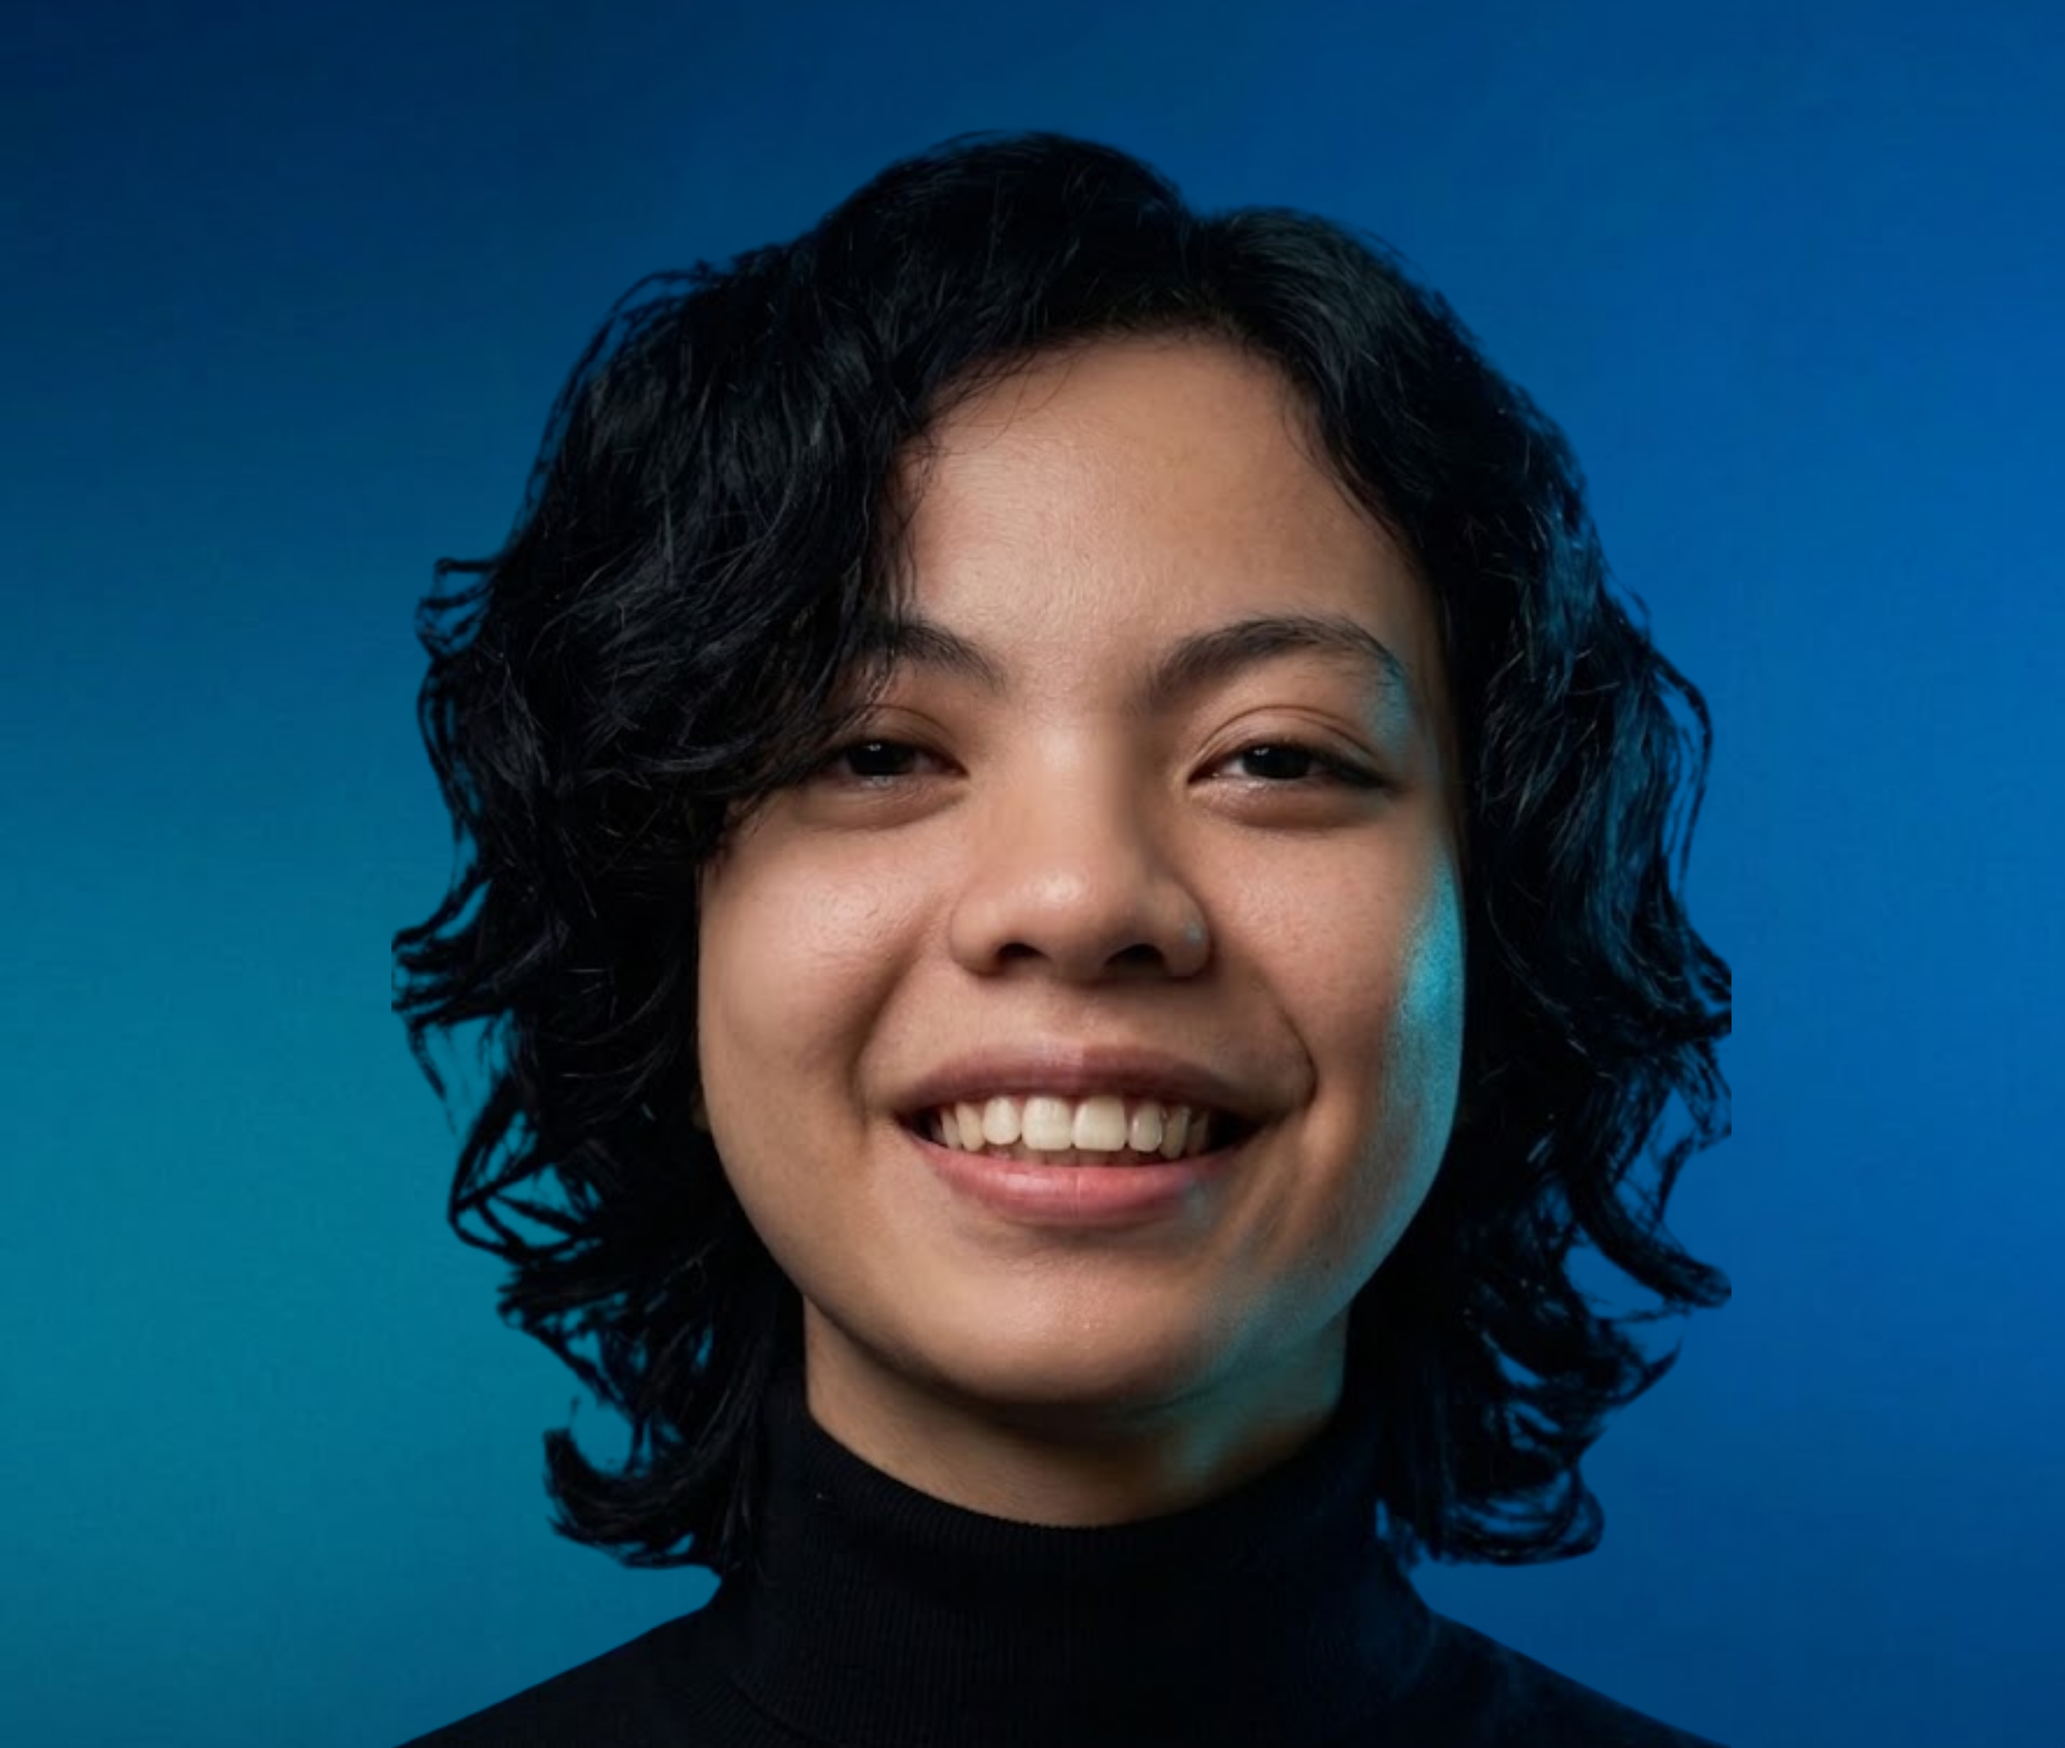
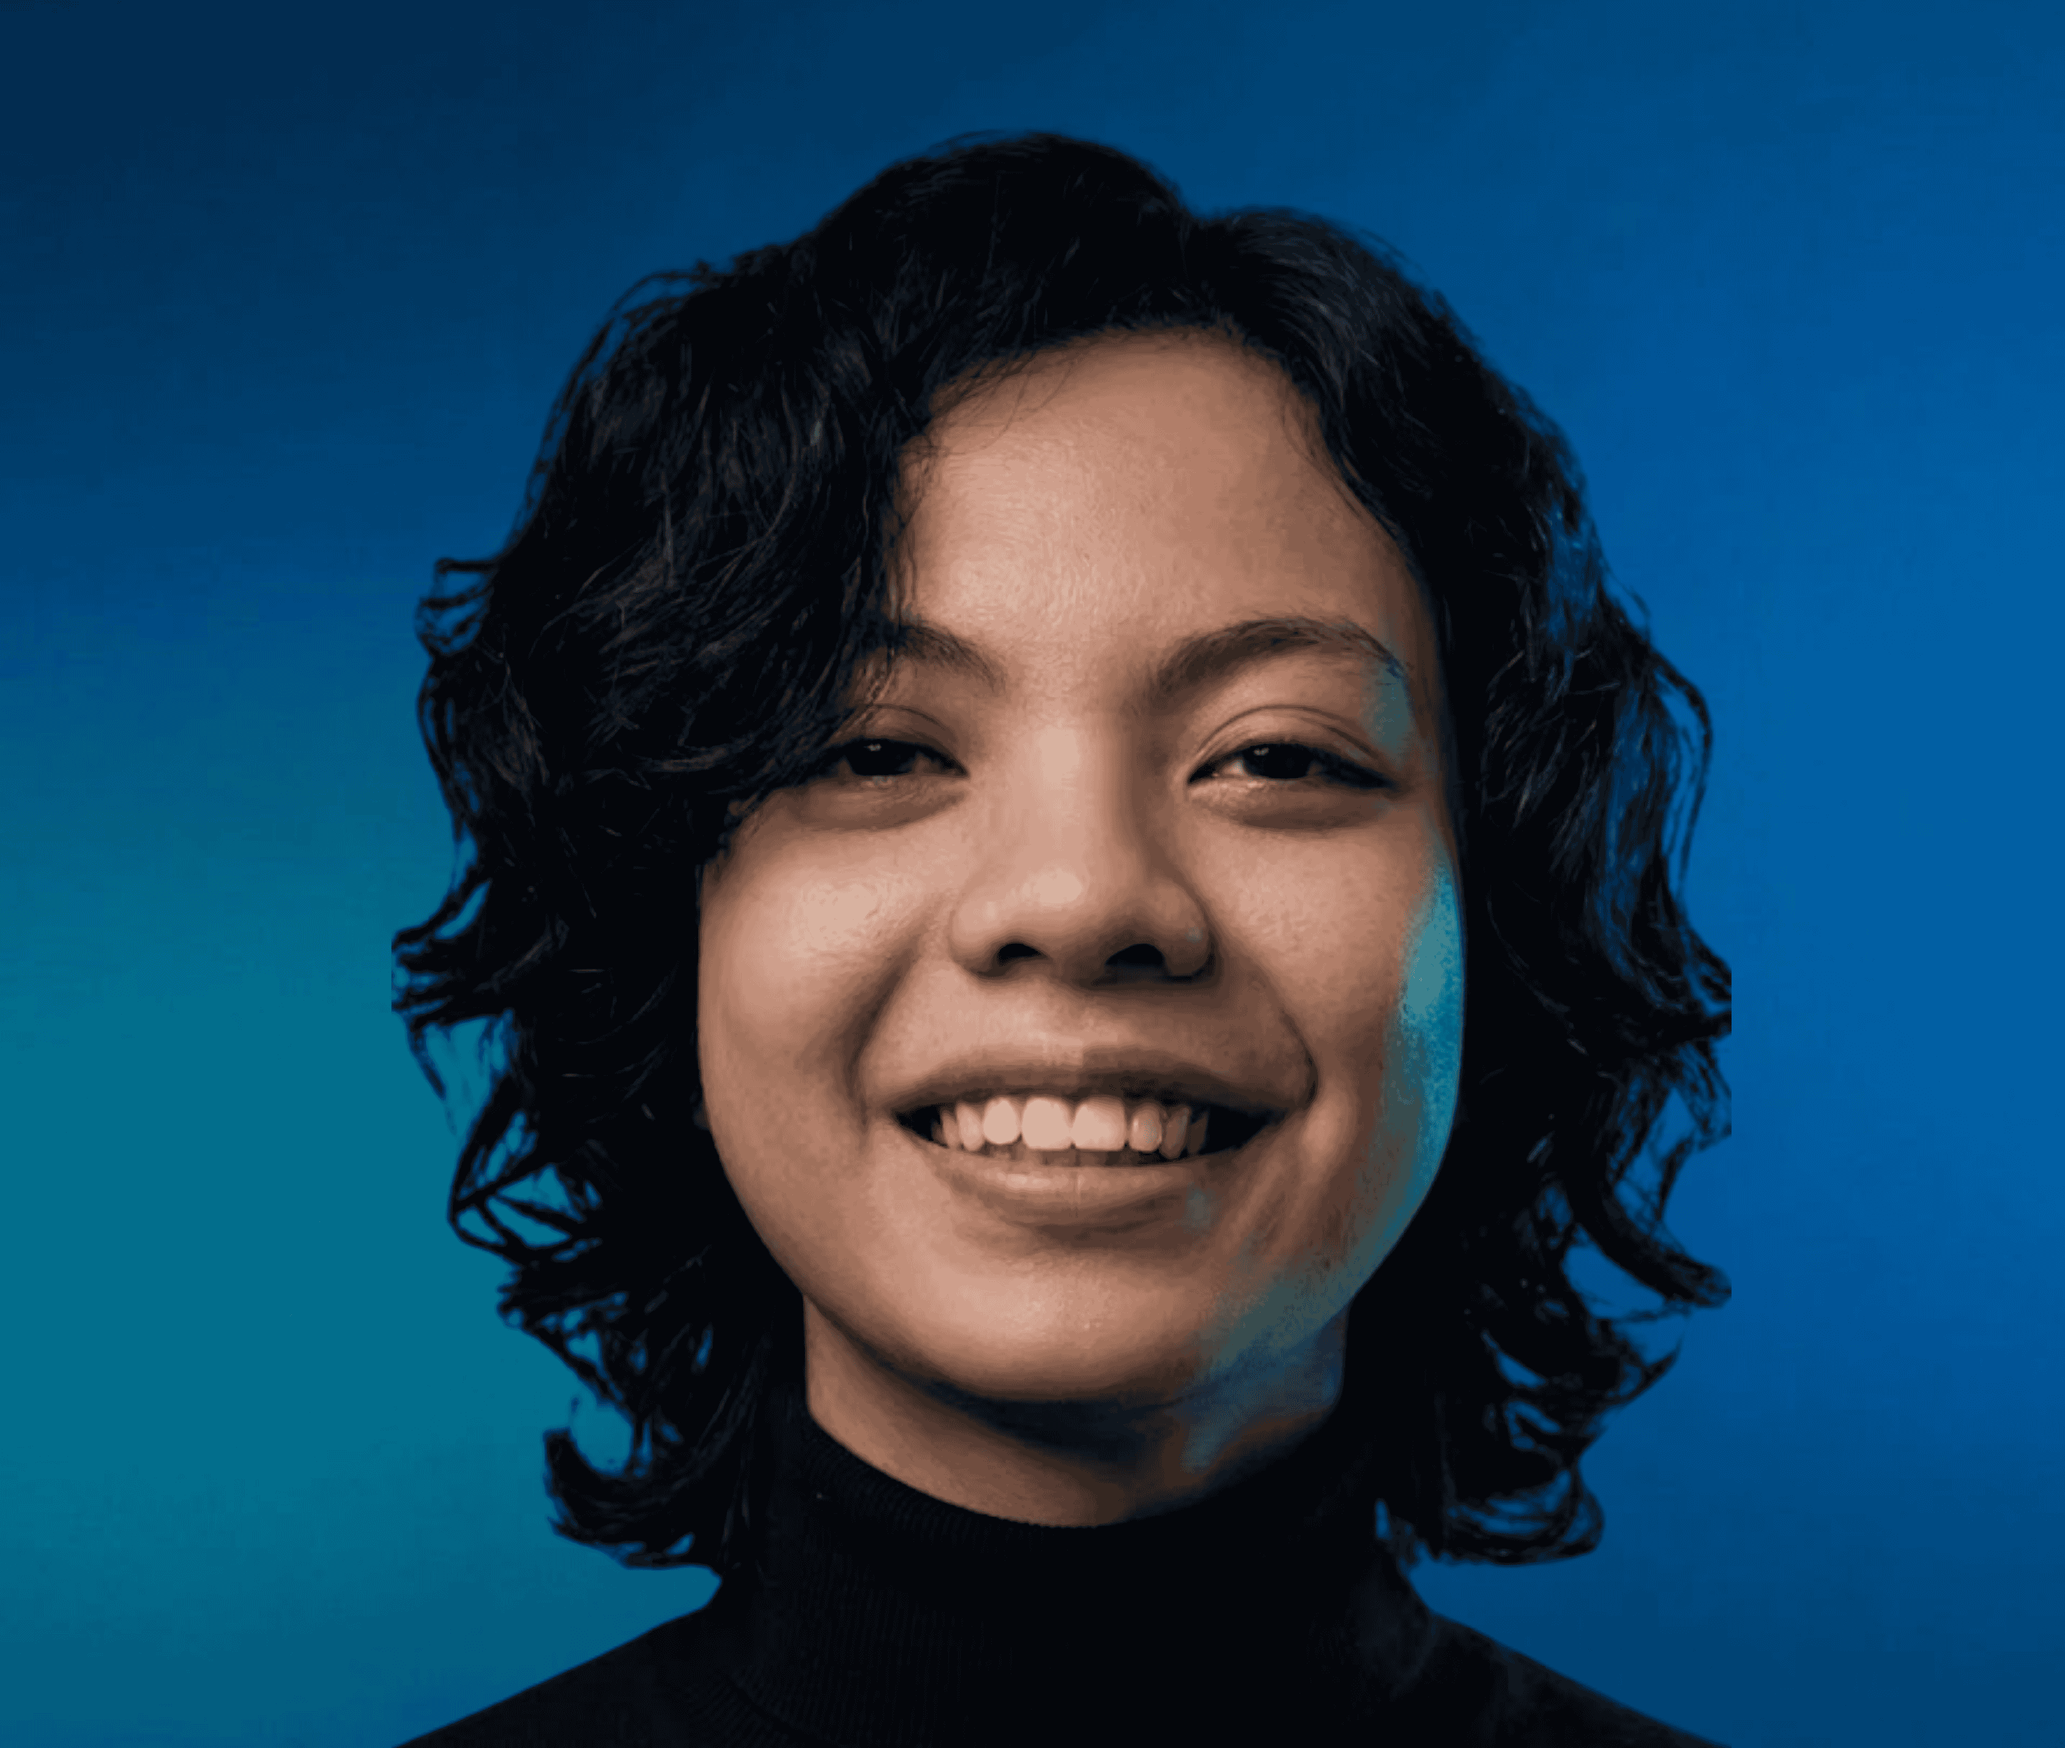
reduce size me-me dot png

diff --git a/index.html b/index.html
@@ -392,7 +392,7 @@
 
         </div>
 
-    </section>
+    </section>s
 
     <!-- =========================================================
      ANIMATED PROJECT CAROUSEL
